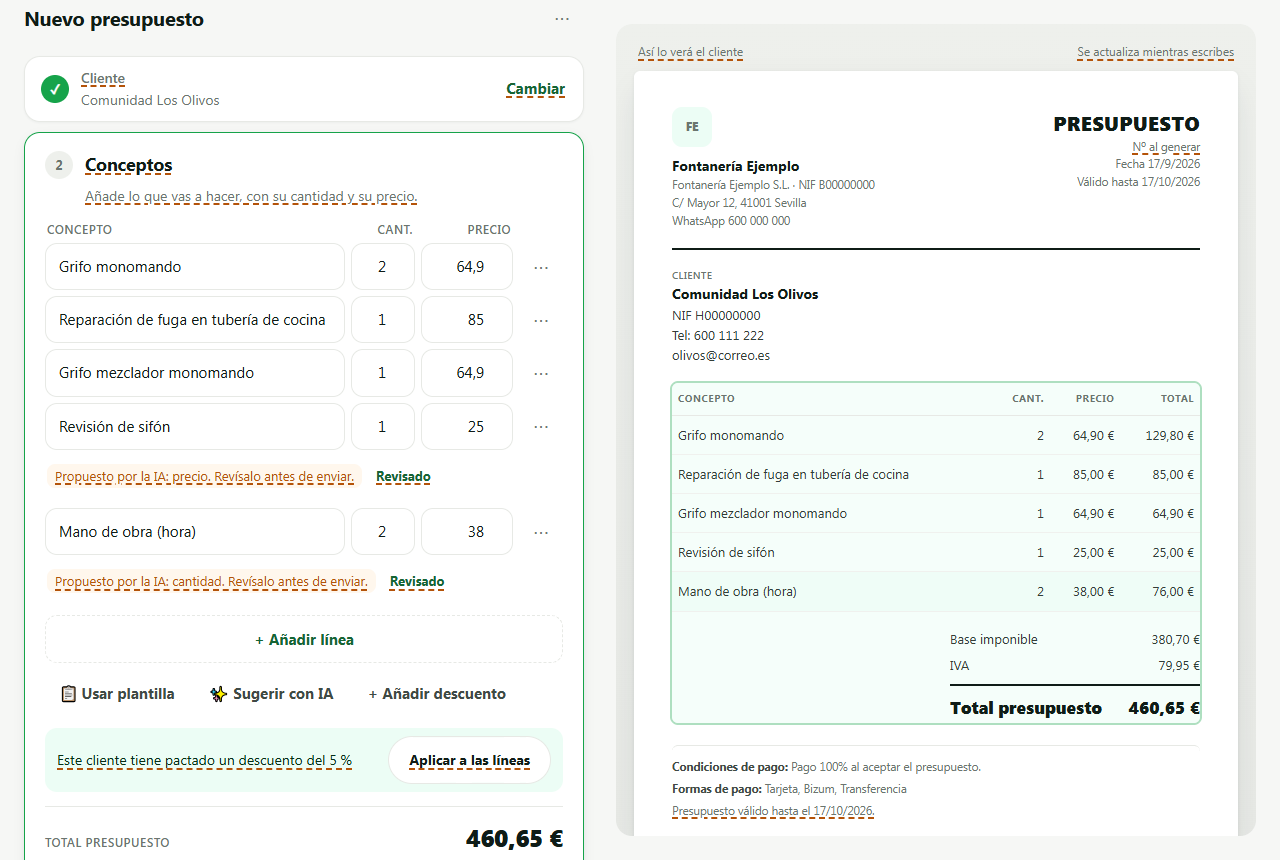
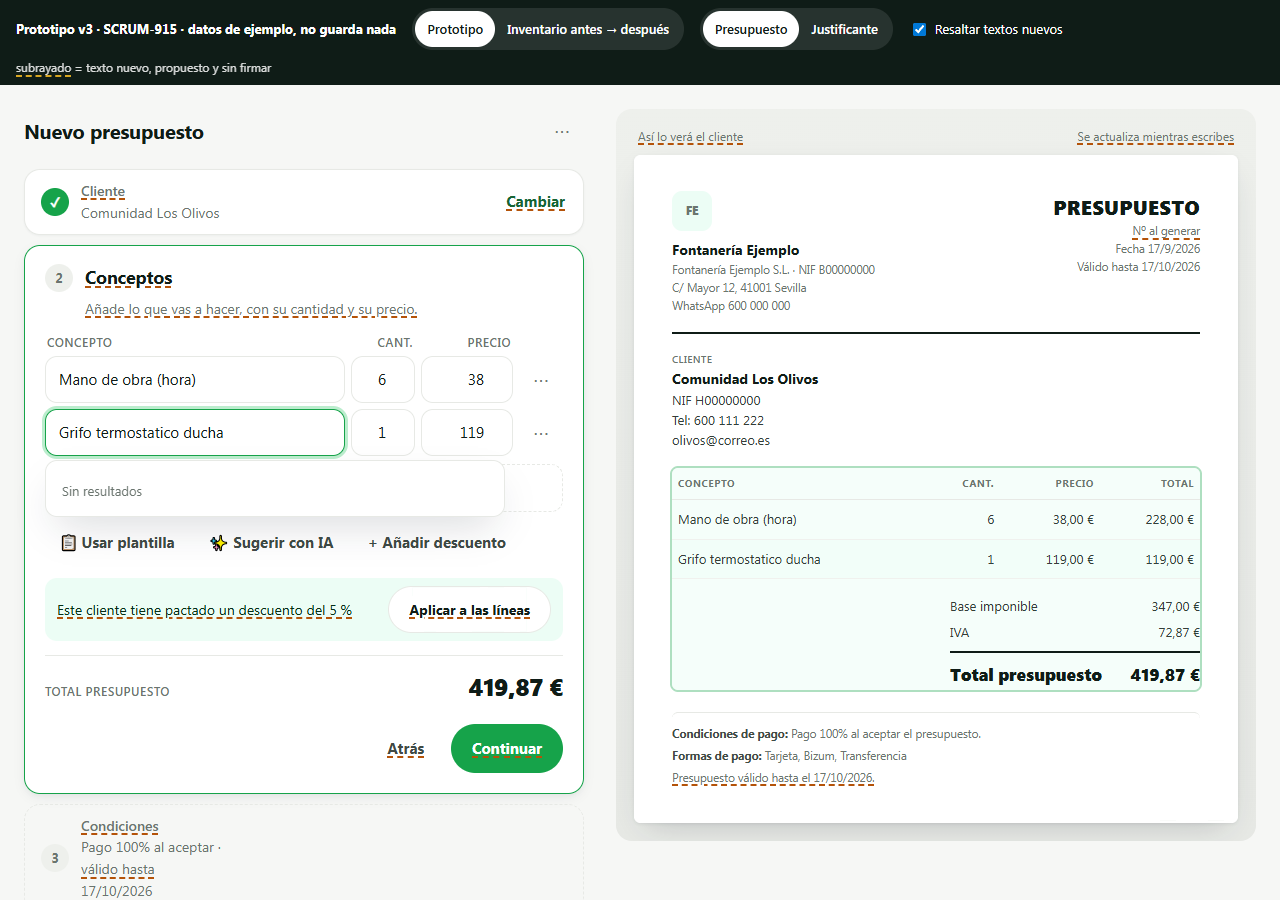
SCRUM-915c · v3 (ajuste): el envío pasa a una HOJA INFERIOR que enseña el mensaje
El último paso deja de tener «Enviar por WhatsApp» como botón suelto: su
primario es «Guardar y enviar», que guarda el presupuesto —le da su número—
y abre una hoja con el texto tal como le llega al cliente, «Enviar por
WhatsApp» en verde y a todo el ancho, y debajo email, PDF, copiar enlace y
«Lo envío luego». En escritorio la misma hoja sale centrada: es el
.overlay/.modal del prototipo, que a <=640 px ya es hoja inferior (patrón de
AB3, bottom sheet de SCRUM-31 F2).

El cuerpo del mensaje NO es texto nuevo: es la plantilla firmada
quote_decision_es (docs/WHATSAPP_TEMPLATES.md §1) con sus 4 variables. Las
plantillas de Meta son STOP.

«Ajustes del documento» gana el galón ▸/▾ para leerse como bloque plegable;
sigue cerrado por defecto y abriéndose en el sitio, sin modal.

Medido a 390 y 1280: 0 errores de consola, sin scroll horizontal, 0 controles
< 44 px, la hoja no desborda, el botón verde visible sin scrollear.

diff --git a/docs/prototipos/SCRUM-915/editor-presupuesto.html b/docs/prototipos/SCRUM-915/editor-presupuesto.html
@@ -194,6 +194,17 @@ body.sin-resaltar .propuesto{text-decoration:none}
 .modal .grupo:first-of-type{border-top:0}
 .sug{display:flex;gap:12px;align-items:flex-start;padding:12px;border:1px solid var(--border);border-radius:var(--r-md);background:var(--surface);cursor:pointer;margin-top:8px}
 .sug input{width:20px;height:20px;margin-top:2px;accent-color:var(--brand)}
+/* SCRUM-915 v3 (ajuste) · la HOJA DE ENVÍO: enseña el mensaje tal como le llega al cliente.
+   No lleva patrón propio: es el .overlay/.modal de arriba, que a ≤640 px ya es hoja inferior y
+   por encima sale centrado — el mismo patrón de AB3 (bottom sheet de SCRUM-31 F2). */
+.modal.hoja{max-width:460px}
+.wa-msg{background:var(--brand-tint);border:1px solid var(--brand);border-radius:var(--r-md) var(--r-md) var(--r-md) 4px;padding:12px 14px;color:var(--ink);white-space:pre-line;box-shadow:var(--sh-reposo)}
+.wa-msg .pie-msg{display:block;margin-top:8px;font-size:12px;color:var(--muted)}
+.wa-msg .cta-msg{display:block;margin-top:10px;padding-top:9px;border-top:1px solid var(--brand);text-align:center;font-weight:700;color:var(--brand-ink)}
+.btn-wa{width:100%;min-height:52px;font-size:1.0625rem}
+.wa-canales{display:flex;flex-direction:column;gap:8px;margin-top:8px}
+.wa-canales .btn{width:100%;justify-content:flex-start}
+.chev{display:inline-block;width:12px;color:var(--muted);font-size:11px}
 @media (max-width:640px){
   .overlay{align-items:flex-end;padding:0}
   .modal{border-radius:var(--r-xl) var(--r-xl) 0 0;max-height:92vh}
@@ -400,8 +411,10 @@ function listaAuto(q){
   const r=CATALOGO.filter((p)=>p[0].toLowerCase().includes(q.toLowerCase()));
   return r.length?r.map((p,j)=>`<li><button type="button" data-cat="${CATALOGO.indexOf(p)}">${esc(p[0])}<small>${eur(p[2])}</small></button></li>`).join(''):`<li class="nota" style="padding:8px 10px">Sin resultados</li>`;
 }
-function filaRes(k,titulo,valor,detalle){ const ch=S.cambiando;
-  return `<div class="fila-res"><div class="que"><b>${titulo}</b><span>${valor}</span></div>
+function filaRes(k,titulo,valor,detalle,plegable){ const ch=S.cambiando;
+  // `plegable` sólo cambia el ASPECTO: un galón ▸/▾ para que la fila se lea como bloque que se abre
+  // en el sitio (ajuste del orquestador a la v3). El comportamiento es el mismo de las demás filas.
+  return `<div class="fila-res"><div class="que"><b>${plegable?`<span class="chev" aria-hidden="true">${ch===k?'▾':'▸'}</span>`:''}${titulo}</b><span>${valor}</span></div>
       <button class="enlace" data-cambiar="${k}" aria-expanded="${ch===k}">${ch===k?P('Listo'):P('Cambiar')}</button></div>
     ${ch===k?`<div class="detalle">${detalle}</div>`:''}`; }
 // SCRUM-915 v3 · los ajustes del documento, a la vista como una fila más (decisión del orquestador).
@@ -418,7 +431,7 @@ function filaAjustes(){
       <div class="fichas"><label class="check"><input type="radio" name="razon" data-aj="razon" value="razon" ${o.razon==='razon'?'checked':''}> Razón social</label><label class="check"><input type="radio" name="razon" data-aj="razon" value="comercial" ${o.razon==='comercial'?'checked':''}> Nombre comercial</label></div>
       <p class="nota">Solo aparecen los que el cliente tenga rellenos. Elige con qué nombre sale este cliente en el documento.</p></div>
     <label class="check"><input type="checkbox" data-aj="incDesc" ${o.incDesc?'checked':''}> Incluir descripción en el PDF</label>`:''}`;
-  return filaRes('ajustes',P('Ajustes del documento'),resumen,detalle);
+  return filaRes('ajustes',P('Ajustes del documento'),resumen,detalle,true);
 }
 function pasoCondiciones(){
   const c=S.cliente; const suma=sumaTramos();
@@ -445,17 +458,46 @@ function pasoEnviar(t){
     ?`<div class="pactado" role="status" style="margin-top:12px"><span>✓ ${P('Enviado por WhatsApp a '+esc(c.nombre)+' · pendiente de firma')}</span></div>`
     :ev.canal==='email'?`<div class="pactado" role="status" style="margin-top:12px"><span>✓ ${P('Enviado por email a '+esc(c.email))}</span></div>`
     :`<div class="pactado" role="status" style="margin-top:12px;background:var(--neutral-100);color:var(--body)"><span>${P('Presupuesto '+S.generado+' guardado · sin enviar')}</span></div>`);
-  const secundarias=esPres()?`<div class="secundarias" style="margin-top:12px">
-      <button class="btn btn-ghost" data-accion="descargar-pdf" ${listo()?'':'disabled'}>⬇ Descargar PDF</button>
-      <button class="btn btn-ghost" data-accion="enviar-email" ${listo()?'':'disabled'}>✉ Enviar por email</button>
-      ${ev?'':`<button class="btn btn-ghost" data-accion="solo-guardar" ${listo()?'':'disabled'}>${P('Solo guardar')}</button>`}</div>`:'';
+  // SCRUM-915 v3 (ajuste) · las secundarias YA NO viven aquí: se fueron a la hoja de envío, junto al
+  // texto del mensaje. Lo que queda en la pantalla después de enviar son las acciones DE DESPUÉS.
+  const secundarias=esPres()&&ev?`<div class="secundarias" style="margin-top:12px">
+      <button class="btn btn-ghost" data-accion="descargar-pdf">⬇ Descargar PDF</button>
+      <button class="btn btn-ghost" data-accion="abrir-envio">${P('Enviar de otra forma')}</button></div>`:'';
   return (esPres()?'':filaAjustes())+`<div class="fila-res"><div class="que"><b>${esc(c?c.nombre:'—')}</b><span>${t.n} ${t.n===1?'concepto':'conceptos'}${esPres()?' · '+esc(COND[S.cond]):''}</span></div><span class="money" style="font-size:1.25rem">${eur(t.total)}</span></div>
     ${conf}${secundarias}
     ${!esPres()&&S.generado?`<p class="nota">Justificante emitido · ${S.generado}</p>`:''}
     ${movil()?`<button class="btn btn-secondary" data-accion="ver-doc" style="width:100%;margin-top:8px">${P('Ver documento')}</button>`:''}`;
 }
+// SCRUM-915 v3 (ajuste) · el botón del último paso ABRE LA HOJA; no envía a ciegas. Por eso ya no
+// puede rotularse «Enviar por WhatsApp»: ese rótulo es el de la hoja, donde sí envía. Un botón que
+// dice lo que NO hace es el mismo defecto que la v2 tenía escondiendo el envío tras «Generar».
 function botonWa(){ const enviado=S.envio&&S.envio.canal==='whatsapp';
-  return `<button class="btn btn-primary" data-accion="enviar-wa" ${listo()&&!enviado?'':'disabled'}>${enviado?'✓ Enviado por WhatsApp':'Enviar por WhatsApp'}</button>`; }
+  return `<button class="btn btn-primary" data-accion="abrir-envio" ${listo()&&!enviado?'':'disabled'}>${enviado?'✓ Enviado por WhatsApp':P('Guardar y enviar')}</button>`; }
+
+// ───────────── La hoja de envío (ajuste del orquestador a la v3) ─────────────
+// El cuerpo del mensaje NO es texto nuevo: es la plantilla FIRMADA `quote_decision_es`
+// (docs/WHATSAPP_TEMPLATES.md §1) con sus 4 variables sustituidas. Por eso no va subrayado.
+// Las plantillas de Meta no se tocan desde aquí: aquí sólo se ENSEÑA lo que ya se envía.
+function textoWa(c,t){
+  return `Hola ${esc(c.nombre)} 👋\n${esc(EMPRESA.nombre)} te ha preparado un presupuesto:\nPresupuesto ${S.generado}\nTotal: ${eur(t.total)}\nTócalo para verlo y responder 👇<span class="pie-msg">Enviado con Yaqu</span><span class="cta-msg">Ver presupuesto</span>`;
+}
+function mEnvio(){
+  const c=S.cliente; const t=totales(); const ev=S.envio;
+  modal(P('Enviar el presupuesto'),
+    `<p class="nota" style="margin:0 0 10px">${P('Presupuesto '+S.generado+' guardado. Elige cómo se lo mandas.')}</p>
+     <span class="label">${P('Así le llega a '+esc(c.nombre)+' por WhatsApp')}</span>
+     <div class="wa-msg" style="margin-top:8px">${textoWa(c,t)}</div>
+     <p class="nota">Plantilla firmada <b>quote_decision_es</b>; cambiarla es cosa de Meta.</p>
+     <button class="btn btn-primary btn-wa" data-accion="enviar-wa" style="margin-top:14px" ${ev&&ev.canal==='whatsapp'?'disabled':''}>📲 ${ev&&ev.canal==='whatsapp'?'Ya enviado por WhatsApp':'Enviar por WhatsApp'}</button>
+     <div style="margin-top:14px"><span class="label">${P('O mándaselo de otra forma')}</span>
+       <div class="wa-canales">
+         <button class="btn btn-secondary" data-accion="enviar-email">✉ Enviar por email</button>
+         <button class="btn btn-secondary" data-accion="descargar-pdf">⬇ Descargar PDF</button>
+         <button class="btn btn-secondary" data-accion="copiar-enlace">🔗 ${P('Copiar enlace')}</button>
+         <button class="btn btn-ghost" data-cerrar>${P('Lo envío luego')}</button>
+       </div></div>`,
+    '','hoja');
+}
 
 // ───────────── La vista previa viva ─────────────
 function renderPrevia(){ const html=documento(); $('#previa').innerHTML=`<div class="marco"><div class="marco-t"><span>${P('Así lo verá el cliente')}</span><span>${P('Se actualiza mientras escribes')}</span></div>${html}</div>`; }
@@ -492,7 +534,7 @@ function renderBarra(){
 function refrescar(){ // mientras se escribe: previa, totales y barra, sin repintar el editor
   renderPrevia(); renderBarra(); const t=totales(); const st=$('#subtotal'); if(st)st.textContent=eur(t.total);
   const s=$('#sumaTramos'); if(s){const n=sumaTramos();s.style.color=n===100?'var(--brand-tint-ink)':'var(--danger)';s.textContent=n===100?`Suman ${n} % ✓`:`Suman ${n} % — deben sumar 100 %`;}
-  const pie=document.querySelector('.paso.abierto .pie-paso'); if(pie){const i=S.abierto; const b=pie.querySelector('[data-abrir="'+(i+1)+'"]'); if(b)b.disabled=!puede(i); const g=pie.querySelector('[data-accion="generar"],[data-accion="enviar-wa"]'); if(g&&!(S.envio&&S.envio.canal==='whatsapp'))g.disabled=!listo(); const f=pie.querySelector('.falta'); if(f&&puede(i))f.remove();}
+  const pie=document.querySelector('.paso.abierto .pie-paso'); if(pie){const i=S.abierto; const b=pie.querySelector('[data-abrir="'+(i+1)+'"]'); if(b)b.disabled=!puede(i); const g=pie.querySelector('[data-accion="generar"],[data-accion="abrir-envio"]'); if(g&&!(S.envio&&S.envio.canal==='whatsapp'))g.disabled=!listo(); const f=pie.querySelector('.falta'); if(f&&puede(i))f.remove();}
   guardado();
 }
 let tG=null; function guardado(){ if(!esPres())return; clearTimeout(tG); tG=setTimeout(()=>{const g=$('#guardado'); if(g){g.textContent='✓ Guardado automáticamente'; setTimeout(()=>{g.textContent='';},1500);}},700); }
@@ -590,11 +632,14 @@ document.addEventListener('click',(e)=>{
     case 'limpiar-ok':S=inicial(S.tipo);cerrar();render();break;
     case 'ver-doc':mDocumento();break;
     case 'generar':if(!listo())break;generar();render();toast('Justificante emitido');break;
-    // SCRUM-915 v3 · WhatsApp es lo primero: genera (una sola vez) y envía en el mismo gesto.
-    case 'enviar-wa':if(!listo())break;generar();S.envio={canal:'whatsapp'};render();toast('Presupuesto enviado por WhatsApp.');break;
-    case 'enviar-email':if(!listo())break;if(!S.cliente.email){toast('Este cliente no tiene email; añádelo en su ficha.');break;}generar();S.envio={canal:'email'};render();toast('Presupuesto enviado por email.');break;
-    case 'solo-guardar':if(!listo())break;generar();S.envio={canal:'guardado'};render();break;
-    case 'descargar-pdf':if(!listo())break;generar();render();toast('presupuesto-'+S.generado.replace('#','')+'.pdf');break;
+    // SCRUM-915 v3 (ajuste) · el último paso GUARDA y abre la hoja; dentro de la hoja se elige canal.
+    // Guardar antes de abrirla no es un paso de más: es lo que hace que el mensaje pueda enseñar el
+    // número de verdad («Presupuesto #128») en vez de prometer uno que aún no existe.
+    case 'abrir-envio':if(!listo())break;generar();if(!S.envio)S.envio={canal:'guardado'};render();mEnvio();break;
+    case 'enviar-wa':if(!listo())break;generar();S.envio={canal:'whatsapp'};cerrar();render();toast('Presupuesto enviado por WhatsApp.');break;
+    case 'enviar-email':if(!listo())break;if(!S.cliente.email){toast('Este cliente no tiene email; añádelo en su ficha.');break;}generar();S.envio={canal:'email'};cerrar();render();toast('Presupuesto enviado por email.');break;
+    case 'copiar-enlace':if(!listo())break;generar();cerrar();render();toast('Enlace copiado: yaqu.app/pay/quote/…');break;
+    case 'descargar-pdf':if(!listo())break;generar();cerrar();render();toast('presupuesto-'+S.generado.replace('#','')+'.pdf');break;
   }
 });
 document.addEventListener('input',(e)=>{
@@ -634,10 +679,10 @@ const INV=[
  ['buscador «Buscar por nombre, teléfono, email o referencia…»','Paso 1 «Cliente», abierto al entrar; filtra en local','—'],
  ['select Cliente + «+ Nuevo cliente»','Lista de 4 coincidencias como botones grandes + «+ Nuevo cliente» (alta sin salir)','—'],
  ['«Sin resultados para tu búsqueda»','Igual, bajo el buscador','—'],
- ['Dirección de la obra + campo','Fila «Ajustes del documento · … · Cambiar» dentro de Condiciones (justificante: dentro de Revisar), abierta en el sitio; si se muestra, sale en el documento junto al cliente','Decisión v3: a la vista'],
+ ['Dirección de la obra + campo','Bloque plegable «▸ Ajustes del documento · … · Cambiar», CERRADO por defecto, dentro de Condiciones (justificante: dentro de Revisar); se abre en el sitio; si se muestra, sale en el documento junto al cliente','Decisión v3: a la vista'],
  ['C · 2. Líneas'],
- ['IVA por defecto (%)','Fila «Ajustes del documento · … · Cambiar» dentro de Condiciones (justificante: dentro de Revisar), abierta en el sitio','Decisión v3: a la vista'],
- ['IVA del presupuesto','Fila «Ajustes del documento · … · Cambiar» dentro de Condiciones (justificante: dentro de Revisar), abierta en el sitio; resumen «IVA sumado»; el documento lo refleja','Arregla: hoy sin oyente'],
+ ['IVA por defecto (%)','Bloque plegable «▸ Ajustes del documento · … · Cambiar», CERRADO por defecto, dentro de Condiciones (justificante: dentro de Revisar); se abre en el sitio','Decisión v3: a la vista'],
+ ['IVA del presupuesto','Bloque plegable «▸ Ajustes del documento · … · Cambiar», CERRADO por defecto, dentro de Condiciones (justificante: dentro de Revisar); se abre en el sitio; resumen «IVA sumado»; el documento lo refleja','Arregla: hoy sin oyente'],
  ['«✨ Sugerir con IA»','Acción SECUNDARIA junto a «+ Añadir línea»; abre el mismo modal','Frase del modal propuesta'],
  ['🎤 Dictar','Dentro del modal de IA, con su condición de hoy','—'],
  ['sugerencias + «Esto lo hemos puesto nosotros…»','Igual en el modal; el aviso se conserva en la línea hasta «Revisado»','Arregla: hoy se pierde'],
@@ -661,16 +706,16 @@ const INV=[
  ['E · 4. Envío'],
  ['Formas de pago + notas IBAN y 0,9 %','Fila «Formas de pago que verá el cliente · … · Cambiar»','—'],
  ['tira de pagos pactados + «[PENDIENTE…]»','Dentro de «Cambiar»: «Aplicar»','MARCADOR → propuesto'],
- ['Datos del cliente en el documento + Razón social / Nombre comercial','Fila «Ajustes del documento · … · Cambiar» dentro de Condiciones (justificante: dentro de Revisar), abierta en el sitio','Decisión v3: a la vista'],
- ['Incluir descripción en el PDF','Fila «Ajustes del documento · … · Cambiar» dentro de Condiciones (justificante: dentro de Revisar), abierta en el sitio','Decisión v3: a la vista'],
+ ['Datos del cliente en el documento + Razón social / Nombre comercial','Bloque plegable «▸ Ajustes del documento · … · Cambiar», CERRADO por defecto, dentro de Condiciones (justificante: dentro de Revisar); se abre en el sitio','Decisión v3: a la vista'],
+ ['Incluir descripción en el PDF','Bloque plegable «▸ Ajustes del documento · … · Cambiar», CERRADO por defecto, dentro de Condiciones (justificante: dentro de Revisar); se abre en el sitio','Decisión v3: a la vista'],
  ['F · Totales y descuento'],
  ['Base, IVA, Suma, Descuento','En el documento de la derecha; en el paso Conceptos, el TOTAL','—'],
  ['«+ Añadir descuento» → Descuento global','Secundaria junto a «+ Añadir línea»','—'],
  ['tira del descuento pactado «[PENDIENTE…]» ×2','«Este cliente tiene pactado un descuento del N %» + «Aplicar a las líneas», en el paso Conceptos','2 MARCADORES → propuestos'],
  ['G · KPI del total','Paso Conceptos + documento (escritorio); barra inferior (móvil)','—'],
  ['H · Acciones'],
- ['«Generar presupuesto» / «Emitir justificante»','Presupuesto: último paso «Revisar y enviar» con «Enviar por WhatsApp» como principal (genera y envía en un gesto); «Solo guardar» genera sin enviar. Justificante: «Emitir justificante»','Decisión v3: WhatsApp es lo primero'],
- ['Generar dos veces = dos presupuestos','Se genera UNA vez: enviar, descargar o guardar reutilizan el mismo presupuesto','Arregla el doble'],
+ ['«Generar presupuesto» / «Emitir justificante»','Presupuesto: último paso «Revisar y enviar», y su botón «Guardar y enviar» guarda y abre la HOJA DE ENVÍO. Justificante: «Emitir justificante» (sin hoja: no se envía a nadie)','Decisión v3 + ajuste: WhatsApp es lo primero, dentro de la hoja'],
+ ['Generar dos veces = dos presupuestos','Se genera UNA vez: enviar, descargar, copiar el enlace o dejarlo guardado reutilizan el mismo presupuesto','Arregla el doble'],
  ['«Limpiar formulario» (sin confirmar)','Menú «⋯» de arriba, con confirmación','Textos propuestos'],
  ['«💾 Guardar como plantilla»','Menú «⋯» de arriba','Guardar Dto./suplido/descripción: cambio de servidor a decidir'],
  ['«✓ Guardado automáticamente»','Junto al título','—'],
@@ -678,7 +723,8 @@ const INV=[
  ['«Vista previa del documento» (no interactiva, incompleta, se «rompe»)','DOCUMENTO VIVO a la derecha, fijo, con aspecto de PDF: se construye mientras escribes y resalta la parte que editas. En móvil, «Ver documento»','Pedido por el fundador'],
  ['«Estado del presupuesto»','Nº en el documento tras generar; «✓ Enviado por WhatsApp a … · pendiente de firma» en el propio paso','Texto propuesto'],
  ['J · Modal tras generar (desaparece)'],
- ['«Enviar por WhatsApp», «✉ Enviar por email», «⬇ Descargar PDF»','En el último paso: WhatsApp principal; email y PDF como secundarias; confirmación en la misma pantalla, sin modal','Decisión v3'],
+ ['«Enviar por WhatsApp», «✉ Enviar por email», «⬇ Descargar PDF»','HOJA DE ENVÍO (hoja inferior a 390 px; la misma centrada a 1280 px, patrón de AB3): enseña el MENSAJE tal como le llega al cliente, «📲 Enviar por WhatsApp» en verde a todo el ancho y debajo email · PDF · copiar enlace · «Lo envío luego». La confirmación de estado sale luego en la pantalla, sin modal','Ajuste de la v3 tras PresupuestAPP'],
+ ['—','El texto del mensaje NO es nuevo: es la plantilla firmada quote_decision_es (docs/WHATSAPP_TEMPLATES.md §1) con sus 4 variables puestas. Por eso no va subrayado','Las plantillas de Meta son STOP'],
  ['Documento suelto'],
  ['mismo editor sin condiciones/envío/descuentos','3 pasos: Cliente → Conceptos → Revisar y emitir; en Revisar, la fila «Ajustes del documento» sólo con IVA por defecto','—'],
  ['«Abrir PDF en nueva pestaña», «Seguir editando»','No hacen falta: el documento está siempre a la derecha y no hay modal que cerrar','Decisión v3'],

diff --git a/docs/prototipos/SCRUM-915/medicion.md b/docs/prototipos/SCRUM-915/medicion.md
@@ -1,17 +1,92 @@
 # SCRUM-915 · Medición del prototipo v3
 
-Chromium 148 local (puppeteer-core), `file://`, 17-sep-2026, rama `scrum-915c-prototipo-v3`. Recorrido en cada
-anchura: elegir «Comunidad Los Olivos» → línea con autocompletado → «✨ Sugerir con IA» → Condiciones → «Cambiar» en
-cobro (50/50) → «Cambiar» en «Ajustes del documento» y dirección de obra «Utilizar dirección de facturación» →
-Revisar y enviar (390: «Ver documento») → «Enviar por WhatsApp» → «Justificante» → «Inventario».
+Chromium 148 local (puppeteer-core), `file://`, 17-sep-2026, rama `scrum-915c-prototipo-v3`.
+
+## Pasada 2 · con el ajuste de la HOJA DE ENVÍO (17-sep-2026, tarde)
+
+Recorrido en cada anchura, **automatizado, no a ojo**: «Comunidad Los Olivos» → 2 conceptos (6 × 38 € + 1 × 119 €) →
+Condiciones → abrir y cerrar «Ajustes del documento» → Revisar y enviar → «Guardar y enviar» (abre la hoja) →
+«📲 Enviar por WhatsApp» dentro de la hoja.
+
+| Anchura | Errores de consola | Scroll horizontal | Controles < 44 px | Total | Modal tapando tras enviar | Confirmación en la pantalla |
+|---|---|---|---|---|---|---|
+| 1280 × 900 | 0 | no | 0 | 419,87 € | no | «✓ Enviado por WhatsApp a Comunidad Los Olivos · pendiente de firma» |
+| 390 × 844 táctil | 0 | no | 0 | 419,87 € | no | igual |
+
+**La hoja de envío, medida:**
+
+| | 390 (móvil) | 1280 (escritorio) |
+|---|---|---|
+| `align-items` del fondo | `flex-end` | `center` |
+| pegada abajo | **sí** | no |
+| centrada (H / V) | sí / no | **sí / sí** |
+| ancho × alto de la hoja | 390 × 772 (vista 844) | 460 × 728 (vista 900) |
+| el contenido desborda la hoja | **no** | no |
+| «📲 Enviar por WhatsApp» | primario, a todo el ancho, 52 px de alto, `rgb(22,163,74)` | igual |
+| visible sin scrollear | sí | sí |
+| canales debajo | ✉ Enviar por email · ⬇ Descargar PDF · 🔗 Copiar enlace · Lo envío luego | igual |
+
+Es el mismo `.overlay/.modal` del prototipo: a ≤640 px se convierte en hoja inferior y por encima sale centrado —
+el patrón de AB3 (bottom sheet de SCRUM-31 F2), no un componente nuevo. El «equivalente centrado en escritorio» que
+pedía el ajuste **no hubo que construirlo: ya salía de ahí**, y lo de arriba es la comprobación de que sale.
+
+**El texto del mensaje, tal como lo pinta la hoja** (las dos anchuras, idéntico):
+
+    Hola Comunidad Los Olivos 👋
+    Fontanería Ejemplo te ha preparado un presupuesto:
+    Presupuesto #128
+    Total: 419,87 €
+    Tócalo para verlo y responder 👇
+    Enviado con Yaqu
+    [Ver presupuesto]
+
+No es texto nuevo: es la plantilla firmada `quote_decision_es` (`docs/WHATSAPP_TEMPLATES.md` §1) con sus 4 variables
+puestas. Por eso **no va subrayado**.
+
+> ⚠ **Una diferencia que no decido yo, y la dejo dicha en vez de taparla.** La ficha de la plantilla pone como ejemplo
+> de `{{4}}` el formato `350.00 EUR`, y aquí se pinta `419,87 €`, que es como el profesional lee un importe en
+> castellano. Cuál de los dos manda es del carril de la S1 (importes), no del mío: lo que sí es seguro es que la hoja
+> tiene que enseñar **lo que de verdad se envía**, así que si sale `EUR` con punto, eso es lo que hay que pintar.
+
+**El bloque «Ajustes del documento», medido** (las dos anchuras, idéntico):
+
+| | valor |
+|---|---|
+| al llegar | `aria-expanded="false"`, galón **▸**, resumen «IVA sumado · sin dirección de obra» |
+| detalle desplegado de entrada | no |
+| al tocar «Cambiar» | `aria-expanded="true"`, galón **▾**, 10 controles **en la página** |
+| ¿se abre en un modal? | **no** |
+
+**La pestaña «Inventario antes → después», medida aparte** (1280, `1280-11-inventario.png`): pinta, 0 errores de
+consola, sin scroll horizontal, **48 filas de contenido** en 13 grupos (eran 47: el ajuste añade la fila que dice que
+el texto del mensaje sale de la plantilla firmada). Contiene ya «HOJA DE ENVÍO» y «Bloque plegable».
+
+## Pasada 1 · la v3 antes del ajuste (17-sep-2026, mediodía) — se conserva
 
 | Anchura | Errores | Scroll horizontal | Controles < 44 px | Botones fuera de la barra fija | Total final | Confirmación tras enviar | Modal abierto | «Obra» en el documento | Filas del inventario |
 |---|---|---|---|---|---|---|---|---|---|
 | 1280 × 860 | 0 | no | 0 | — | 460,65 € | «✓ Enviado por WhatsApp a Comunidad Los Olivos · pendiente de firma» | no | sí | 47 |
 | 390 × 844 táctil | 0 | no | 0 | 0 | 460,65 € | igual | no | sí | 47 |
 
-- Nº «#128» en la cabecera del documento tras enviar; el ⚙ de arriba ya no existe.
+El total cambia entre las dos pasadas (460,65 € → 419,87 €) porque el recorrido de la pasada 2 mete **otros conceptos**,
+no porque la cuenta se haya movido: 6 × 38 + 119 = 347,00 € de base, 72,87 € de IVA al 21 %, 419,87 € de total.
+
+- Nº «#128» en la cabecera del documento tras guardar; el ⚙ de arriba ya no existe.
 - ⚠ Primera pasada en 390: la barra inferior del último paso no cabía («Enviado por WhatsApp» cortado): en ese paso la
   barra lleva sólo el total y el botón; «Ver documento» queda dentro del paso. Se añadió a la medida la comprobación de
   botones fuera de la barra fija, que antes no se miraba.
+- ⚠ En la pasada 2, la hoja **sí desbordaba** a 390 px en el primer intento (contenido > 772 px, había que scrollear
+  dentro para ver «Lo envío luego»). Se acortaron los dos textos explicativos de la hoja y dejó de desbordar. Se deja
+  escrito porque es la clase de cosa que vuelve en cuanto alguien añada un canal más.
+
+## Cómo se contaron los «controles < 44 px», que no es obvio
+
+Dos exclusiones, declaradas para que el 0 signifique algo:
+1. **La barra `.proto`** (el conmutador Prototipo / Inventario / Presupuesto / Justificante y la casilla «Resaltar
+   textos nuevos») no es producto: es el andamio del prototipo. Fuera del recuento.
+2. Un **checkbox o radio de 20 px dentro de una etiqueta `.check` de ≥ 44 px** cuenta como que cumple: el blanco de
+   toque es la etiqueta entera, no la casilla.
+
+Sin esas dos exclusiones el recuento daría 5 en cada pantalla, y los 5 serían del andamio.
+
 - La cuenta es ILUSTRATIVA: al construir manda la de hoy (887/888).

diff --git a/docs/prototipos/SCRUM-915/textos-propuestos.md b/docs/prototipos/SCRUM-915/textos-propuestos.md
@@ -26,12 +26,38 @@ ya existe hoy en el producto y se reutiliza literal. Pendientes de firma (regla 
 - «Aplicar» (formas de pago pactadas) — sustituye un marcador
 - Modal de IA: «Descríbelo con tus propias palabras y te proponemos las líneas usando tu catálogo de productos.» (el de hoy nombra a «Claude», que no es el proveedor que se usa)
 
-## v3 · Ajustes del documento (fila en Condiciones; en el justificante, en Revisar)
+## v3 · Ajustes del documento (bloque plegable en Condiciones; en el justificante, en Revisar)
 - «Ajustes del documento» · resumen «IVA sumado» / «IVA no incluido» (ya existe) · «sin dirección de obra» / «con dirección de obra» · en el justificante «IVA por defecto N %»
+- El galón ▸/▾ no es texto: es señal de que el bloque se abre y se cierra. No necesita firma.
 
-## v3 · Enviar
-- Botón principal «Enviar por WhatsApp» (ya existe) · secundarias «⬇ Descargar PDF» y «✉ Enviar por email» (ya existen) y «Solo guardar» (NUEVO)
-- Confirmación en la misma pantalla: «✓ Enviado por WhatsApp a <cliente> · pendiente de firma» · «✓ Enviado por email a <email>» · «Presupuesto #N guardado · sin enviar»
+## v3 + ajuste · Enviar (la HOJA DE ENVÍO)
+**El botón del último paso** ya no puede llamarse «Enviar por WhatsApp», porque con la hoja delante **ese botón no
+envía: abre la hoja**. Un botón que dice lo que no hace es el mismo defecto que teníamos en la v2 escondiendo el envío
+detrás de «Generar», sólo que al revés.
+- «Guardar y enviar» (NUEVO) — el botón del último paso, y el mismo en la barra de abajo en móvil. Guarda el
+  presupuesto (le da su número) y abre la hoja.
+
+**Dentro de la hoja:**
+| texto | estado |
+|---|---|
+| «Enviar el presupuesto» (título de la hoja) | **NUEVO** |
+| «Presupuesto #N guardado. Elige cómo se lo mandas.» | **NUEVO** |
+| «Así le llega a \<cliente\> por WhatsApp» (rótulo sobre el mensaje) | **NUEVO** |
+| el cuerpo del mensaje (Hola… / te ha preparado un presupuesto / Presupuesto #N / Total / Tócalo para verlo y responder / Enviado con Yaqu / «Ver presupuesto») | **NO es nuevo, y NO se toca**: es la plantilla `quote_decision_es` de `docs/WHATSAPP_TEMPLATES.md` §1 con sus 4 variables. Las plantillas de Meta son STOP |
+| «📲 Enviar por WhatsApp» | ya existe |
+| «O mándaselo de otra forma» (rótulo de los canales) | **NUEVO** |
+| «✉ Enviar por email» · «⬇ Descargar PDF» | ya existen |
+| «🔗 Copiar enlace» | **NUEVO** — idea tomada de PresupuestAPP; el enlace existe ya (`/pay/quote/:token`, el mismo del botón de la plantilla) |
+| «Lo envío luego» (cerrar la hoja sin enviar) | **NUEVO** — sustituye a «Solo guardar» de la v3, que ya no hace falta: al abrir la hoja el presupuesto YA está guardado, así que lo único que queda por decir es que el envío se deja para después |
+
+**Fuera de la hoja, después:**
+- Confirmación en la misma pantalla, sin modal: «✓ Enviado por WhatsApp a \<cliente\> · pendiente de firma» ·
+  «✓ Enviado por email a \<email\>» · «Presupuesto #N guardado · sin enviar» (este último sale en cuanto se abre la
+  hoja, porque en ese momento ya es verdad).
+- «Enviar de otra forma» (NUEVO) — reabre la hoja después de haber enviado.
+
+**Lo que NO se copia de PresupuestAPP, y por qué:** «Ya se lo he entregado en mano» no se propone porque hoy el
+producto no tiene ese estado, y un rótulo que promete un estado que no existe es peor que el hueco (canon de la S4).
 
 ## Cabecera, menús y hojas
 - «Más acciones» (menú ⋯ de arriba) · «Línea N» · «Ajustes (IVA, descuento, descripción…)»

diff --git a/docs/prototipos/SCRUM-915/direccion-de-diseno.md b/docs/prototipos/SCRUM-915/direccion-de-diseno.md
@@ -56,3 +56,31 @@ rota, no se va creando. Molaba más a un lado, pero moderno y pulido.»
    envía en un gesto); secundarias «⬇ Descargar PDF», «✉ Enviar por email» y «Solo guardar». Confirmación en la misma
    pantalla, sin modal. Se genera UNA vez: todo reutiliza el mismo presupuesto. En móvil la barra del último paso lleva
    «Enviar por WhatsApp».
+
+---
+
+## v3 · AJUSTE (17-sep-2026, tarde) — tras medir el recorrido de PresupuestAPP (SCRUM-906 comentario 15804)
+Cambia el punto 2 de la v3. El punto 1 (ajustes a la vista) se queda como estaba; sólo se le pone un galón ▸/▾ para que
+se lea como bloque que se abre y se cierra.
+
+1. **El envío pasa a una HOJA INFERIOR que enseña el mensaje.** El último paso sigue llamándose «Revisar y enviar», pero
+   su botón principal es «Guardar y enviar»: guarda el presupuesto —le da su número— y abre una hoja con **el texto tal
+   como le llega al cliente**, «📲 Enviar por WhatsApp» en verde y a todo el ancho, y debajo los demás canales (email,
+   PDF, copiar enlace, «Lo envío luego»). En escritorio la misma hoja sale **centrada**: es el `.overlay/.modal` del
+   prototipo, que a ≤640 px ya se convierte en hoja inferior — el patrón de AB3 (bottom sheet de SCRUM-31 F2). No hubo
+   que construir un «equivalente de escritorio»: estaba dentro del patrón.
+2. **Por qué el botón ya no dice «Enviar por WhatsApp».** Con la hoja delante, ese botón no envía: abre la hoja. Dejarle
+   el rótulo del envío sería el mismo defecto que el fundador señaló en la v2 —el botón que no hace lo que dice— sólo
+   que del revés. «Enviar por WhatsApp» es ahora el rótulo del botón que **sí** envía, dentro de la hoja.
+3. **Se genera UNA vez**, igual que antes: enviar, descargar, copiar el enlace o dejarlo para luego reutilizan el mismo
+   presupuesto. Y la confirmación de estado sigue saliendo **en la pantalla, sin modal**, después de cerrar la hoja.
+4. **«Solo guardar» desaparece** y lo sustituye «Lo envío luego», que es lo único que queda por decir: al abrir la hoja
+   el presupuesto ya está guardado, así que «guardar» no es una decisión pendiente.
+
+**De PresupuestAPP se toma la IDEA, no el diseño.** Lo que se coge: enseñar el mensaje antes de enviar, y «Copiar
+enlace». Lo que NO se coge: «Ya se lo he entregado en mano», porque el producto no tiene ese estado y un rótulo que
+promete un estado inexistente es peor que el hueco (canon de la S4, SCRUM-823).
+
+**Lo que NO se toca, y es deliberado:** el cuerpo del mensaje que enseña la hoja es la plantilla `quote_decision_es`
+(`docs/WHATSAPP_TEMPLATES.md` §1) con sus cuatro variables puestas. No es texto nuevo, no va subrayado y no se propone
+cambiarlo: las plantillas de Meta son STOP.
